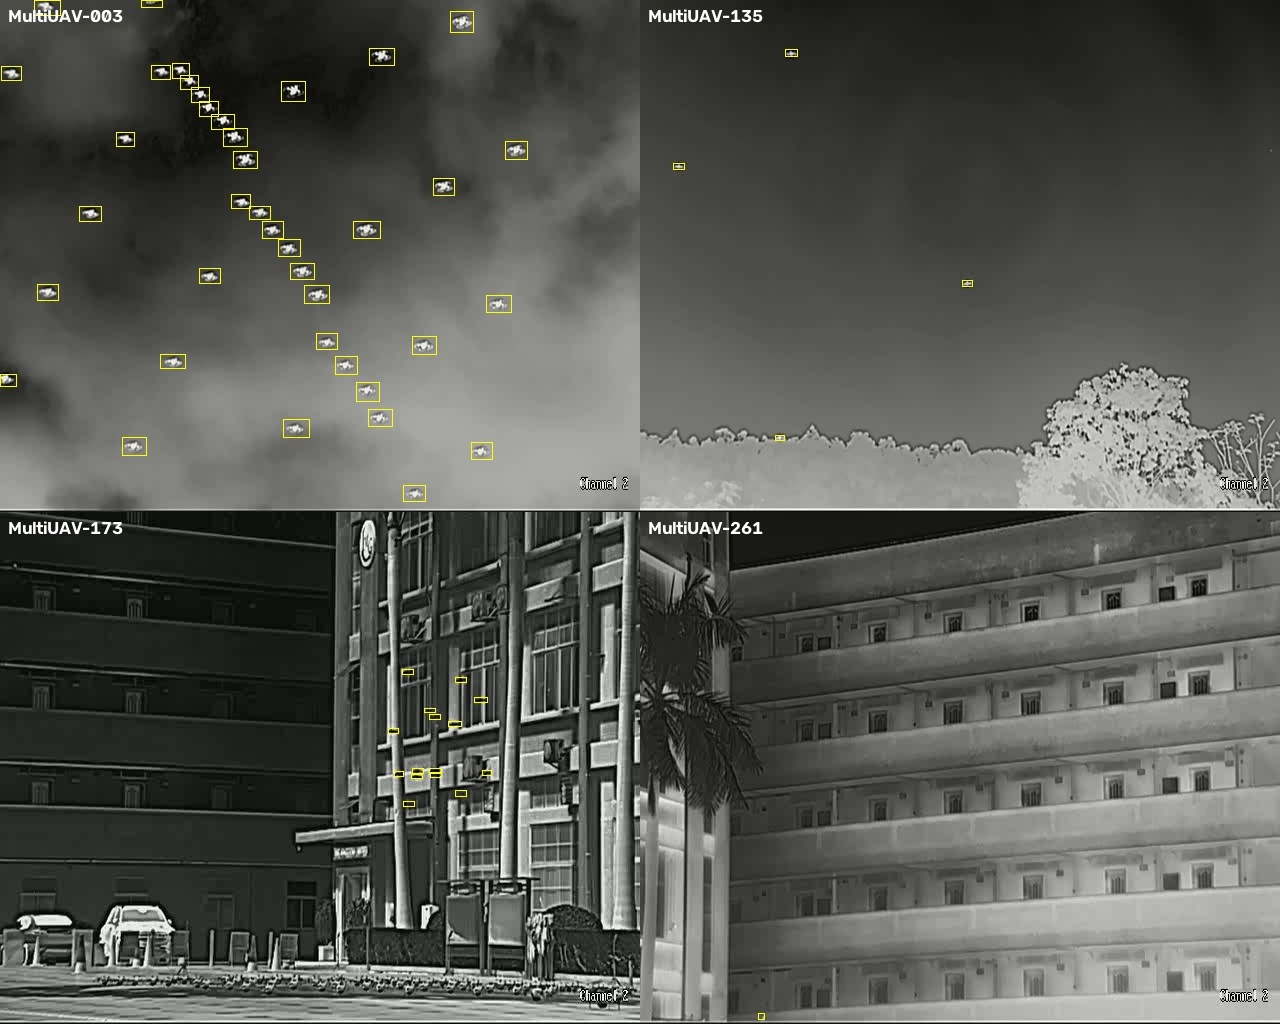
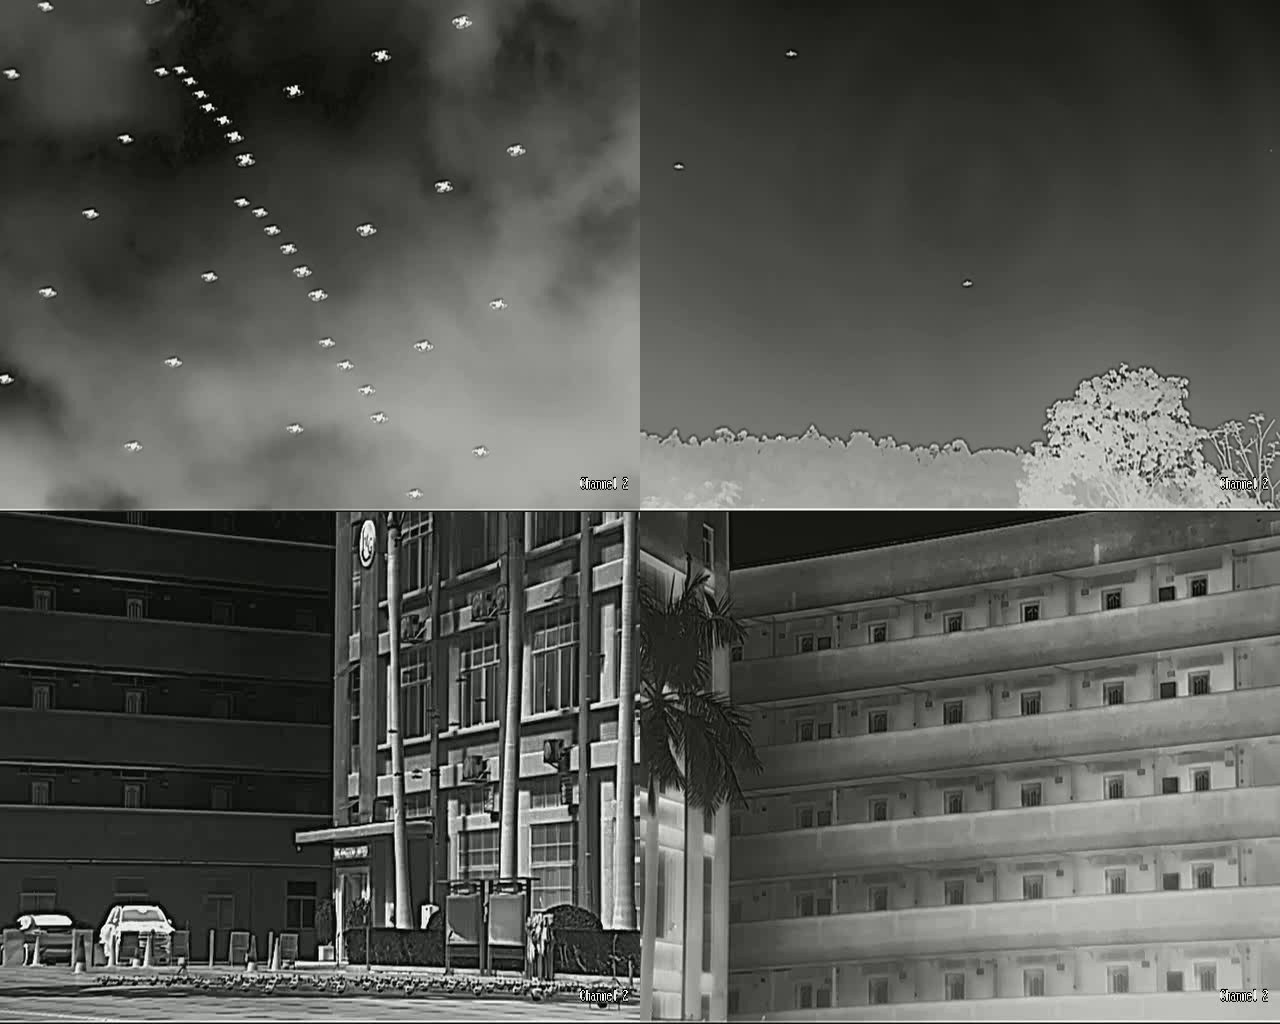
Remove paper references and drawn boxes from README image

diff --git a/README.md b/README.md
@@ -1,11 +1,8 @@
-# Strong Baseline (YOLOv12n + BoT-SORT-ReID)
+# YOLOv12n + BoT-SORT
 
-Multi-UAV tracking in thermal infrared video. Based on
-[wish44165/YOLOv12-BoT-SORT-ReID](https://github.com/wish44165/YOLOv12-BoT-SORT-ReID)
-([paper](https://arxiv.org/abs/2503.17237)); trained weights are not included.
+Multi-UAV tracking in thermal infrared video with a YOLOv12n detector and the BoT-SORT tracker.
+Trained weights are not included.
 
-<img src="docs/images/demo_sequences.jpg" alt="Thermal infrared multi-UAV demo sequences" width="100%">
+<img src="docs/images/demo_sequences.jpg" alt="Thermal infrared multi-UAV sequences" width="100%">
 
-<sub>Demo sequences in `data/demo/MOT/` with their first-frame annotations. Tracking results of the original model: [Track 3 video](https://youtu.be/_IiUISzCeU8).</sub>
-
-<img src="https://arxiv.org/html/2503.17237v1/x3.png" alt="YOLOv12n with BoT-SORT-SBS-S50 workflow" width="100%">
+Code based on [wish44165/YOLOv12-BoT-SORT-ReID](https://github.com/wish44165/YOLOv12-BoT-SORT-ReID), licensed under AGPL-3.0.
